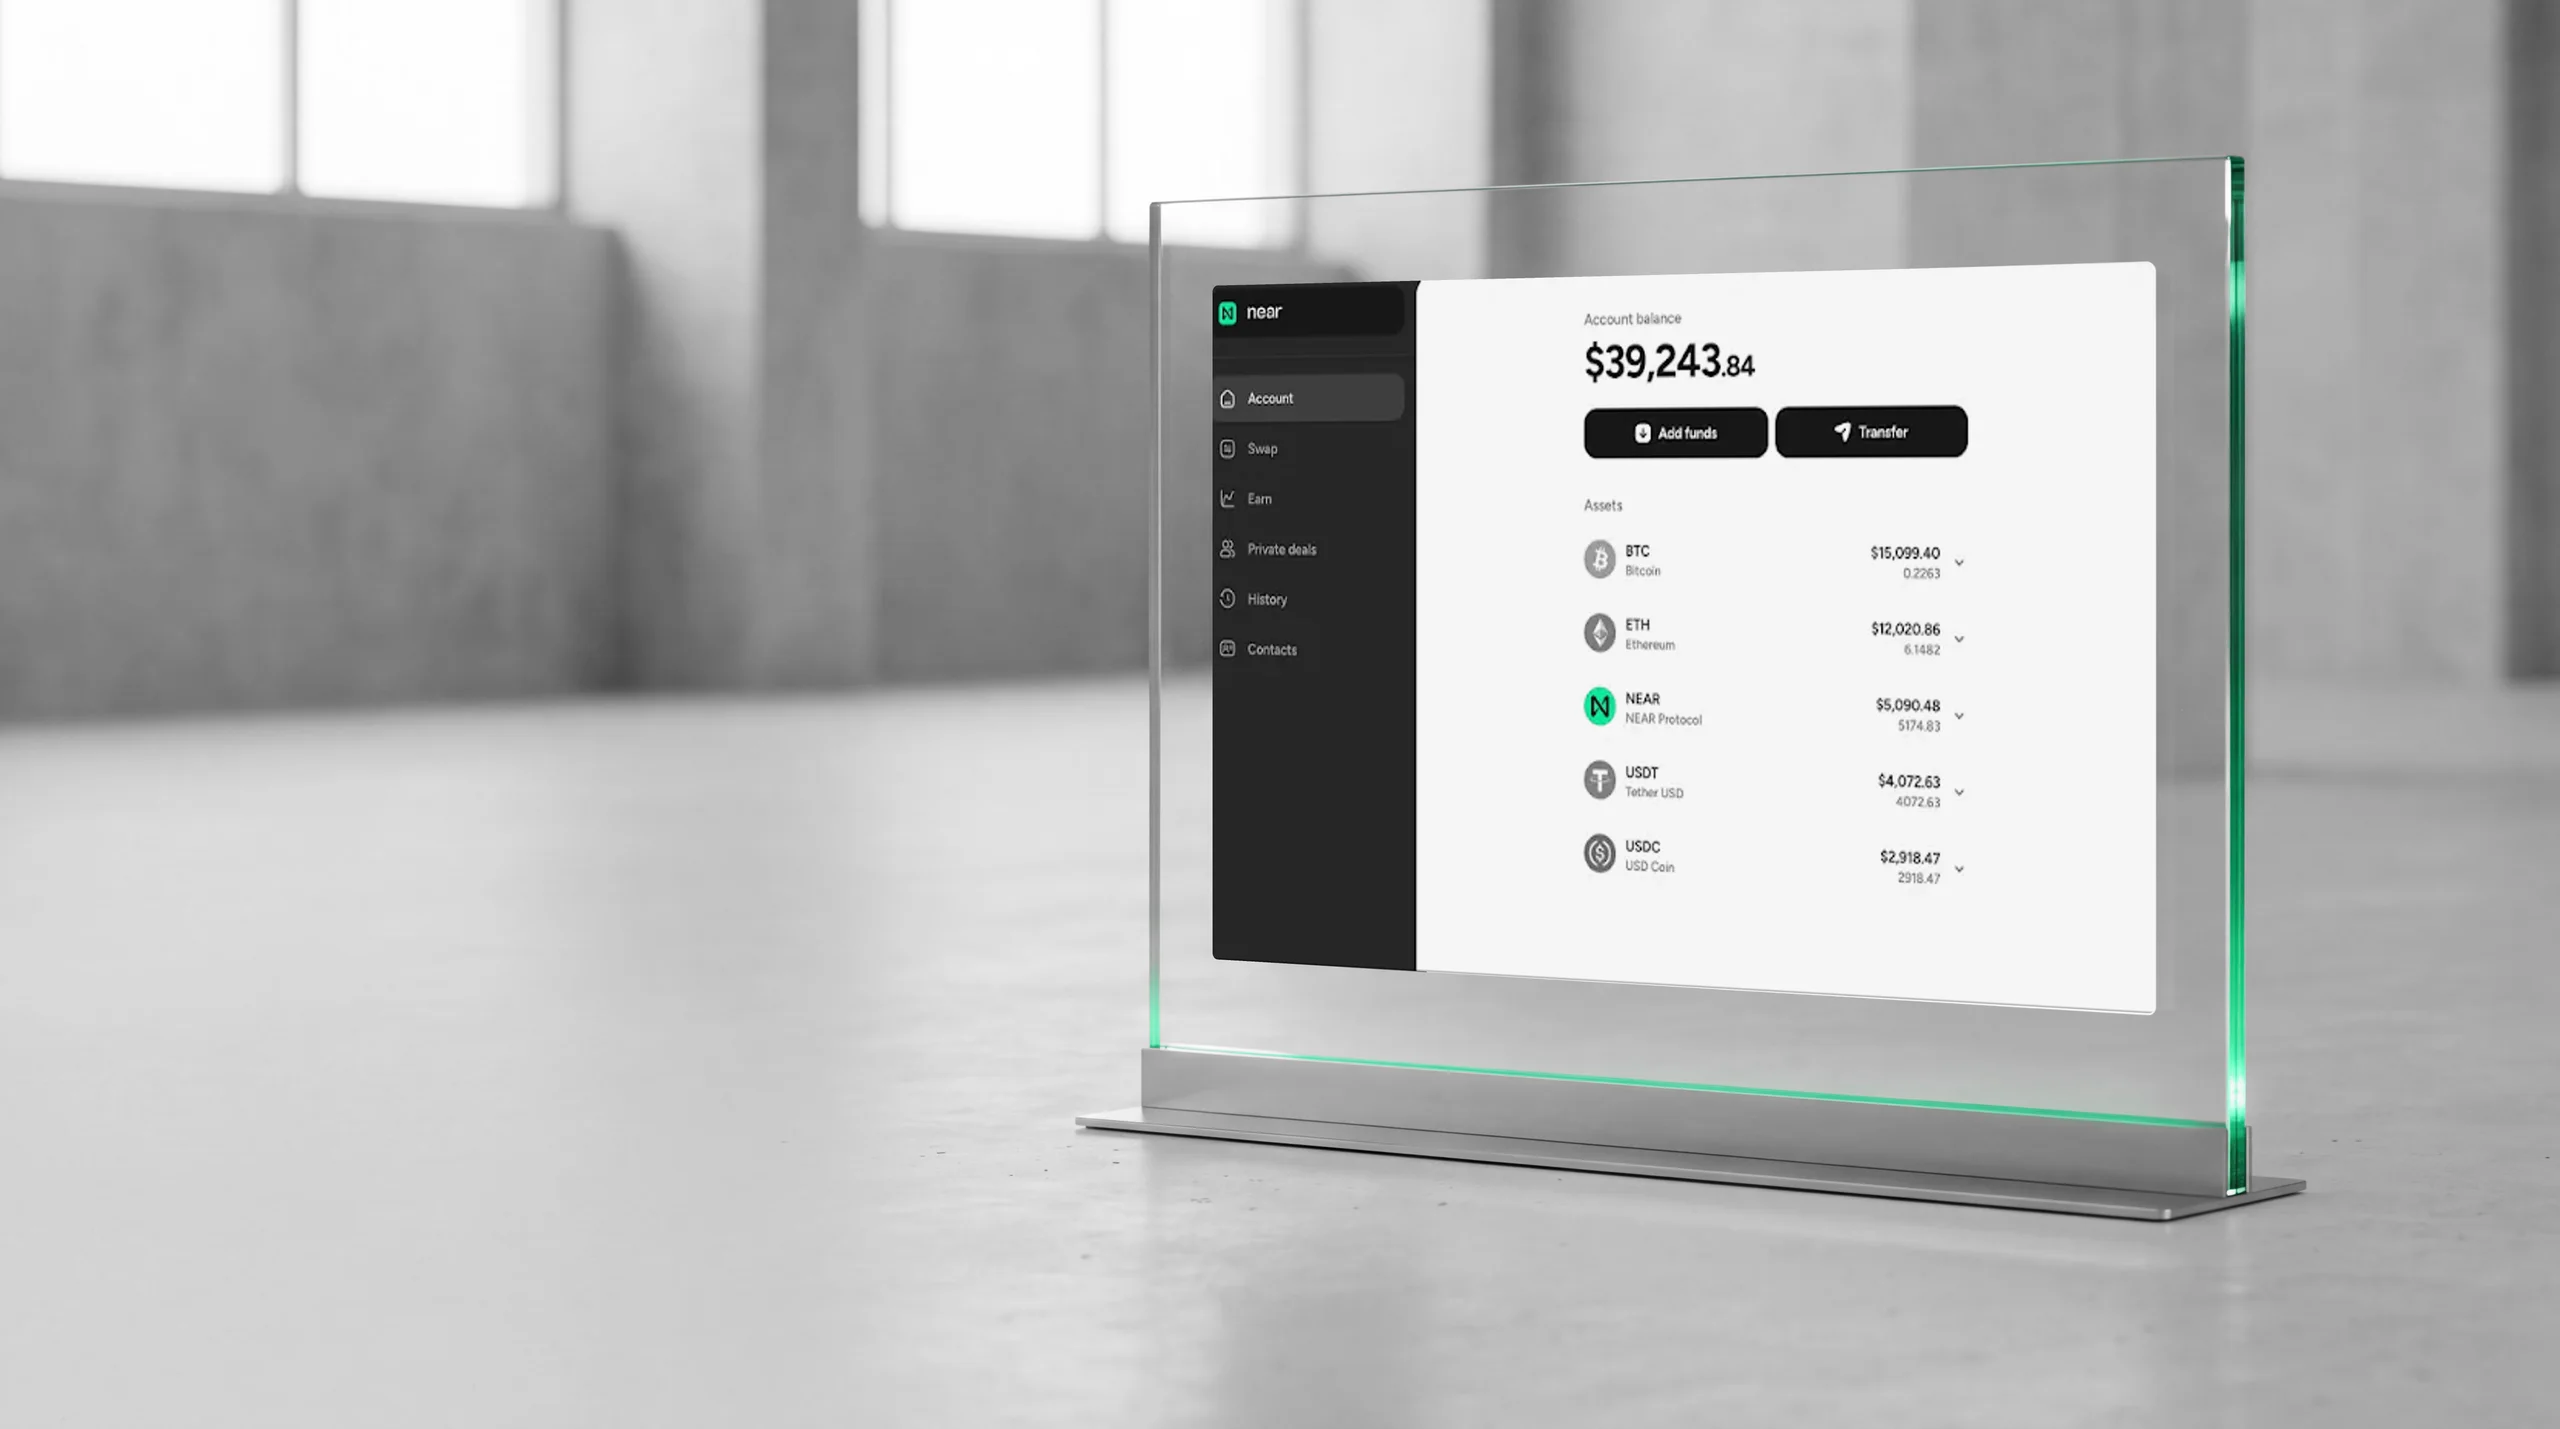
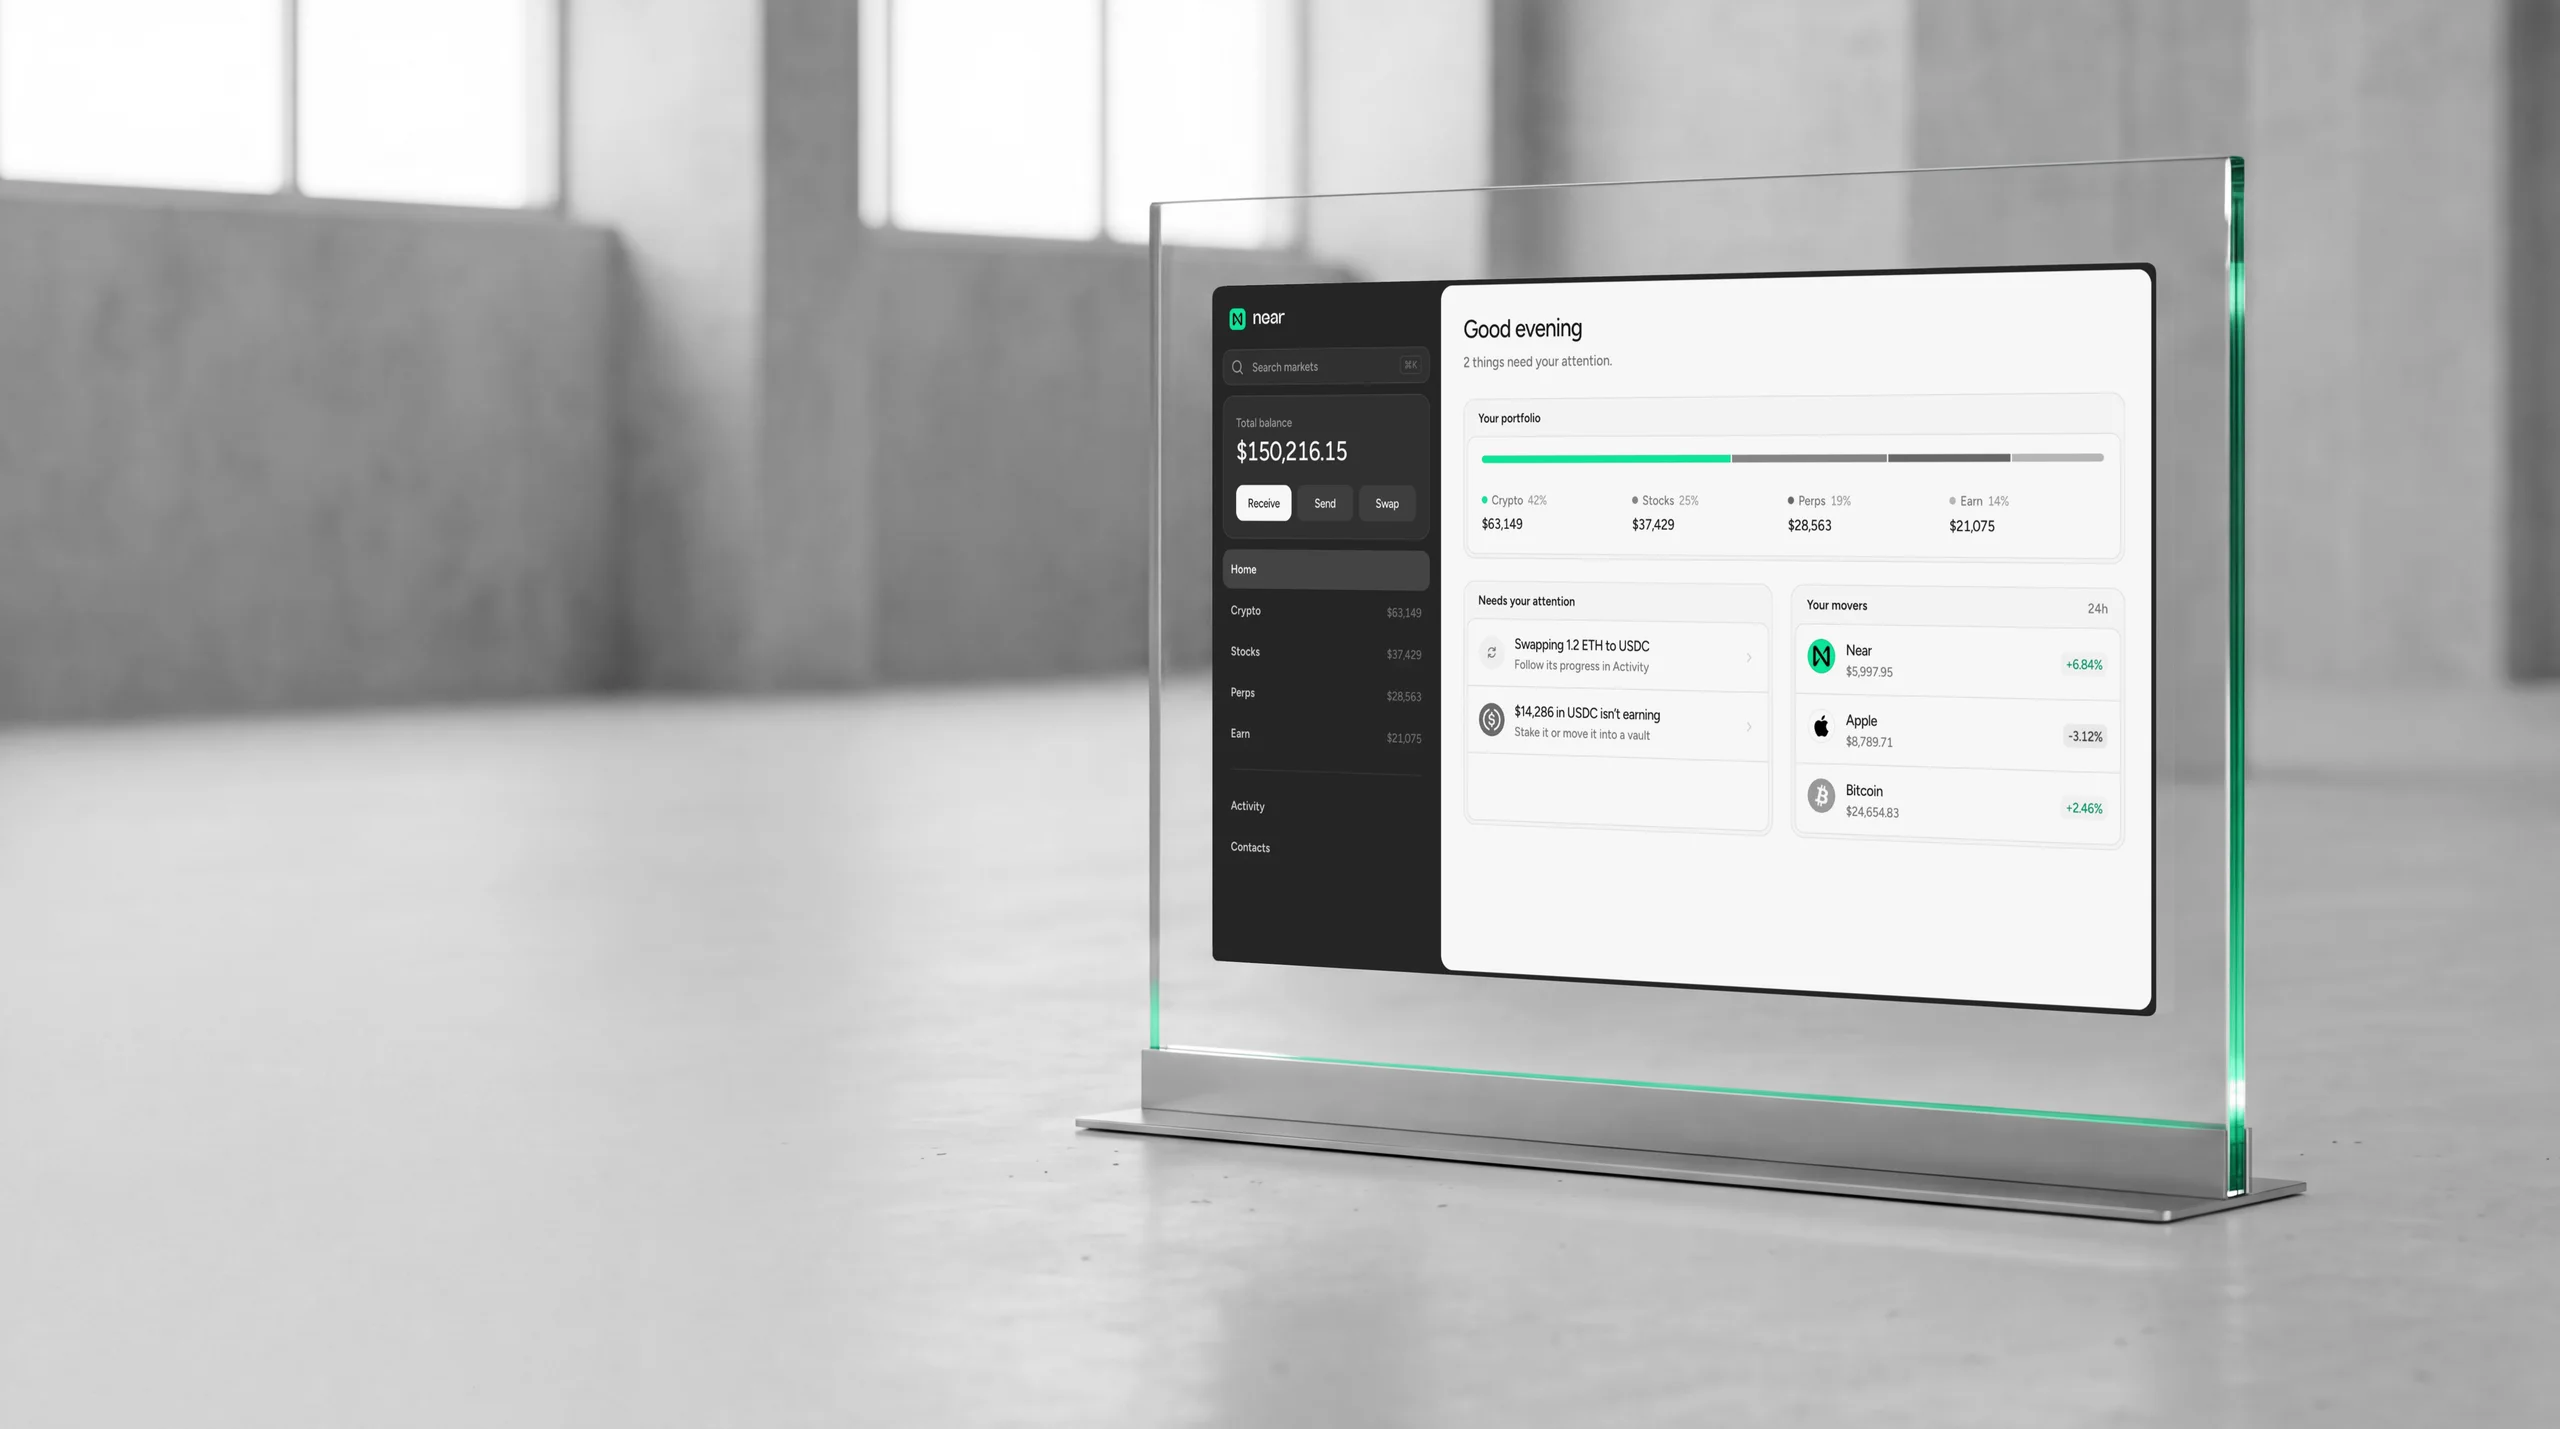
Blog: near.com hero shows the Home screen in its glass pane
- S5 B remade with near.com's Home UI: cut at its rounded border, greyed to NEAR green only, one image edit, the real screen pasted back so text and numbers are exact
- Vet PASS 8.5/10; phone focus 83 -> 85 (placement critic), desktop 30 and tablet 87 unchanged

diff --git a/src/lib/blog/local-articles.ts b/src/lib/blog/local-articles.ts
@@ -1244,7 +1244,7 @@ const ARTICLES: LocalArticle[] = [
    "hero": {
     "src": "/images/blog/heroes/near-com.webp",
     "focus": "30% 50%",
-    "focusAt": { "md": "87% 50%", "sm": "83% 50%" },
+    "focusAt": { "md": "87% 50%", "sm": "85% 50%" },
     "alt": ""
    },
    "takeaways": [],
